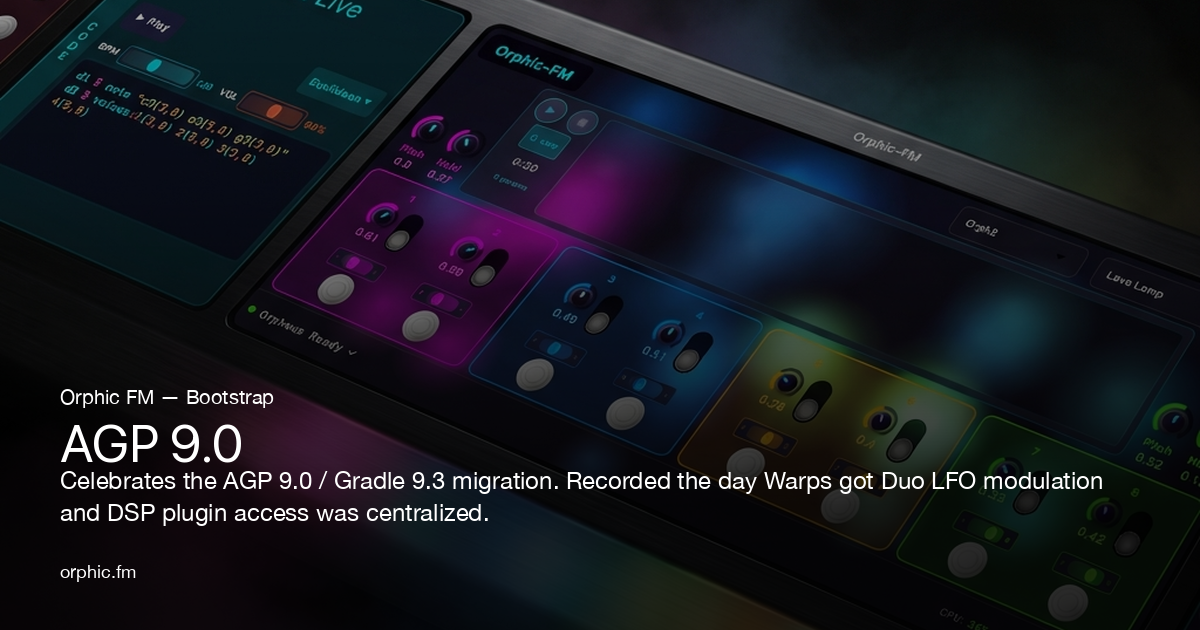
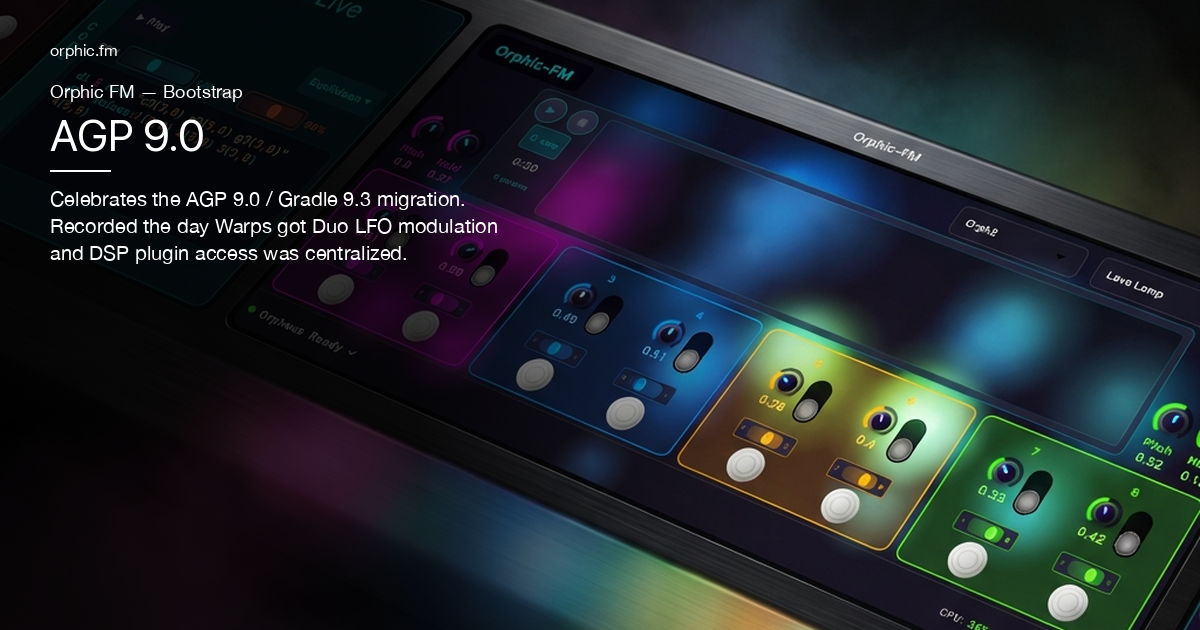
Redesign OG images: left text panel, art visible on right
Switches from full-width bottom text overlay to a left-side text
panel with left-to-right gradient scrim. The poster art (waveforms,
synth UI) now shows clearly on the right side of the card.

diff --git a/_tools/generate-og-images.py b/_tools/generate-og-images.py
@@ -21,17 +21,18 @@ from PIL import Image, ImageDraw, ImageFont, ImageFilter
 # ── Config ──────────────────────────────────────────────────
 OG_WIDTH = 1200
 OG_HEIGHT = 630
-MARGIN_X = 60
-MARGIN_Y = 50
-TEXT_AREA_WIDTH = OG_WIDTH - (MARGIN_X * 2)
+MARGIN_X = 50
+MARGIN_Y = 40
+TEXT_PANEL_WIDTH = 520  # Left side text panel
+TEXT_AREA_WIDTH = TEXT_PANEL_WIDTH - MARGIN_X - 20  # Text wrapping width
 
 # Fonts
 FONT_TITLE = "/System/Library/Fonts/SFNS.ttf"
 FONT_BODY = "/System/Library/Fonts/HelveticaNeue.ttc"
 
-TITLE_SIZE = 52
-BODY_SIZE = 24
-BRAND_SIZE = 18
+TITLE_SIZE = 44
+BODY_SIZE = 20
+BRAND_SIZE = 16
 
 ROOT = Path(__file__).resolve().parent.parent
 
@@ -92,20 +93,23 @@ def load_poster(poster_path):
 
 
 def darken_image(img):
-    """Apply dark gradient overlay for text readability."""
+    """Apply left-to-right gradient overlay — dark on left for text, clear on right for art."""
     overlay = Image.new("RGBA", (OG_WIDTH, OG_HEIGHT), (0, 0, 0, 0))
     draw = ImageDraw.Draw(overlay)
 
-    # Bottom-heavy gradient: darker at bottom where text lives
-    for y in range(OG_HEIGHT):
-        # More aggressive darkening in bottom 60%
-        t = y / OG_HEIGHT
-        if t < 0.3:
-            alpha = int(80 + t * 100)  # Light at top
+    for x in range(OG_WIDTH):
+        t = x / OG_WIDTH
+        if t < 0.35:
+            # Solid dark on the left text panel
+            alpha = 200
+        elif t < 0.65:
+            # Fade out through the middle
+            fade = (t - 0.35) / 0.30
+            alpha = int(200 * (1 - fade))
         else:
-            alpha = int(110 + (t - 0.3) * 200)  # Darker toward bottom
-        alpha = min(alpha, 210)
-        draw.line([(0, y), (OG_WIDTH, y)], fill=(0, 0, 0, alpha))
+            # Transparent on the right — art shows through
+            alpha = 0
+        draw.line([(x, 0), (x, OG_HEIGHT)], fill=(0, 0, 0, alpha))
 
     return Image.alpha_composite(img, overlay)
 
@@ -155,7 +159,7 @@ def wrap_text_ellipsis(draw, text, font, max_width, max_lines):
 
 
 def generate_og_image(poster_path, title, description, output_path, subtitle=None):
-    """Generate a single OG image."""
+    """Generate a single OG image with text on the left, art on the right."""
     # Load and prepare poster
     poster = load_poster(poster_path)
     img = darken_image(poster)
@@ -170,52 +174,48 @@ def generate_og_image(poster_path, title, description, output_path, subtitle=Non
     font_body = ImageFont.truetype(FONT_BODY, BODY_SIZE)
     font_brand = ImageFont.truetype(FONT_BODY, BRAND_SIZE)
 
-    # Layout from bottom up
-    y_bottom = OG_HEIGHT - MARGIN_Y
+    # ── Left-panel layout: top-to-bottom ──
+    y = MARGIN_Y
 
-    # Brand line at bottom
-    brand_text = "orphic.fm"
-    draw.text((MARGIN_X, y_bottom - 20), brand_text, font=font_brand,
-              fill=(255, 255, 255, 120))
+    # Brand line at top
+    draw.text((MARGIN_X, y), "orphic.fm", font=font_brand,
+              fill=(255, 255, 255, 100))
+    y += BRAND_SIZE + 24
+
+    # Subtitle (album name for songs)
+    if subtitle:
+        font_subtitle = ImageFont.truetype(FONT_BODY, 18)
+        draw.text((MARGIN_X, y), subtitle, font=font_subtitle,
+                  fill=(255, 255, 255, 120))
+        y += 18 + 10
+
+    # Title — may need to wrap for long titles
+    title_lines = wrap_text_ellipsis(draw, title, font_title,
+                                      TEXT_AREA_WIDTH, 2)
+    line_height_title = TITLE_SIZE + 6
+    for line in title_lines:
+        draw.text((MARGIN_X, y), line, font=font_title,
+                  fill=(255, 255, 255, 255))
+        y += line_height_title
+    y += 12
+
+    # Thin separator line
+    draw.line([(MARGIN_X, y), (MARGIN_X + 60, y)],
+              fill=(255, 255, 255, 80), width=2)
+    y += 16
 
     # Description text
-    max_desc_lines = 4
+    remaining_height = OG_HEIGHT - y - MARGIN_Y
+    line_height_body = BODY_SIZE + 7
+    max_desc_lines = min(8, remaining_height // line_height_body)
     desc_lines = wrap_text_ellipsis(draw, description, font_body,
                                      TEXT_AREA_WIDTH, max_desc_lines)
-    line_height_body = BODY_SIZE + 8
-    desc_block_height = len(desc_lines) * line_height_body
-
-    y_desc_start = y_bottom - 20 - 30 - desc_block_height
-    for i, line in enumerate(desc_lines):
-        y = y_desc_start + i * line_height_body
+    for line in desc_lines:
         draw.text((MARGIN_X, y), line, font=font_body,
-                  fill=(255, 255, 255, 200))
+                  fill=(255, 255, 255, 180))
+        y += line_height_body
 
-    # Subtitle (album name) above title for songs
-    y_title_bottom = y_desc_start - 16
-
-    if subtitle:
-        font_subtitle = ImageFont.truetype(FONT_BODY, 20)
-        title_bbox = draw.textbbox((0, 0), title, font=font_title)
-        title_h = title_bbox[3] - title_bbox[1]
-
-        subtitle_bbox = draw.textbbox((0, 0), subtitle, font=font_subtitle)
-        subtitle_h = subtitle_bbox[3] - subtitle_bbox[1]
-
-        y_subtitle = y_title_bottom - title_h - 8 - subtitle_h
-        draw.text((MARGIN_X, y_subtitle), subtitle, font=font_subtitle,
-                  fill=(255, 255, 255, 120))
-        y_title = y_subtitle + subtitle_h + 8
-    else:
-        title_bbox = draw.textbbox((0, 0), title, font=font_title)
-        title_h = title_bbox[3] - title_bbox[1]
-        y_title = y_title_bottom - title_h
-
-    # Title
-    draw.text((MARGIN_X, y_title), title, font=font_title,
-              fill=(255, 255, 255, 255))
-
-    # Save as PNG (better for OG images than webp — universal support)
+    # Save
     output_path.parent.mkdir(parents=True, exist_ok=True)
     img = img.convert("RGB")
     img.save(str(output_path), "PNG", quality=90)
